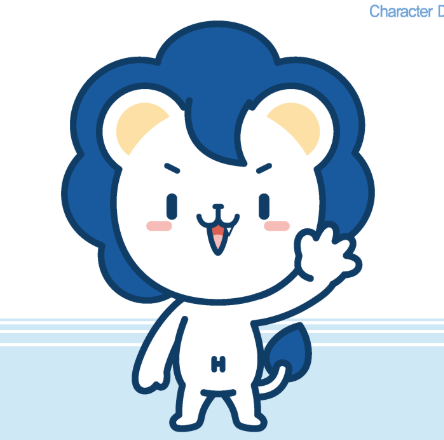
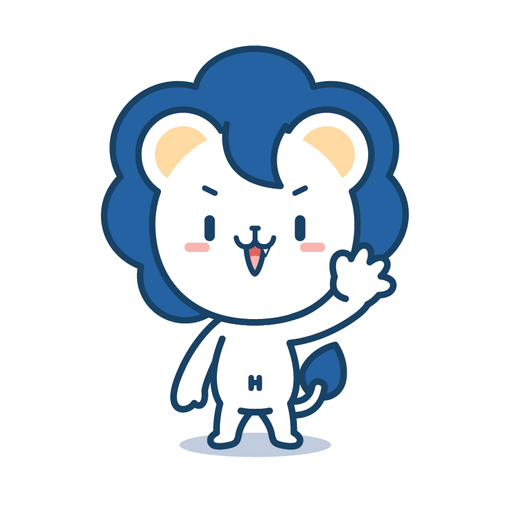
feat: 앱 패키지명 변경 및 공통 아이콘 설정
- appId: com.hanyangnyang.app 으로 변경
- hanyang_logo.jpg → PNG 변환, 1024x1024 마스터 아이콘 생성 (assets/icon.png)
- PWA 아이콘 hanyang_logo 기반으로 교체 (192/512px)
- apple-touch-icon.png 교체 (180px)
- capacitor.assets.config.json 추가 (Android/iOS 아이콘 자동 생성용)

diff --git a/vite.config.js b/vite.config.js
@@ -29,17 +29,17 @@ export default defineConfig(({ mode }) => {
           display: 'standalone',
           icons: [
             {
-              src: 'hanyang_splash.png',
+              src: 'pwa-192x192.png',
               sizes: '192x192',
               type: 'image/png'
             },
             {
-              src: 'hanyang_splash.png',
+              src: 'pwa-512x512.png',
               sizes: '512x512',
               type: 'image/png'
             },
             {
-              src: 'hanyang_splash.png',
+              src: 'pwa-512x512.png',
               sizes: '512x512',
               type: 'image/png',
               purpose: 'any maskable'